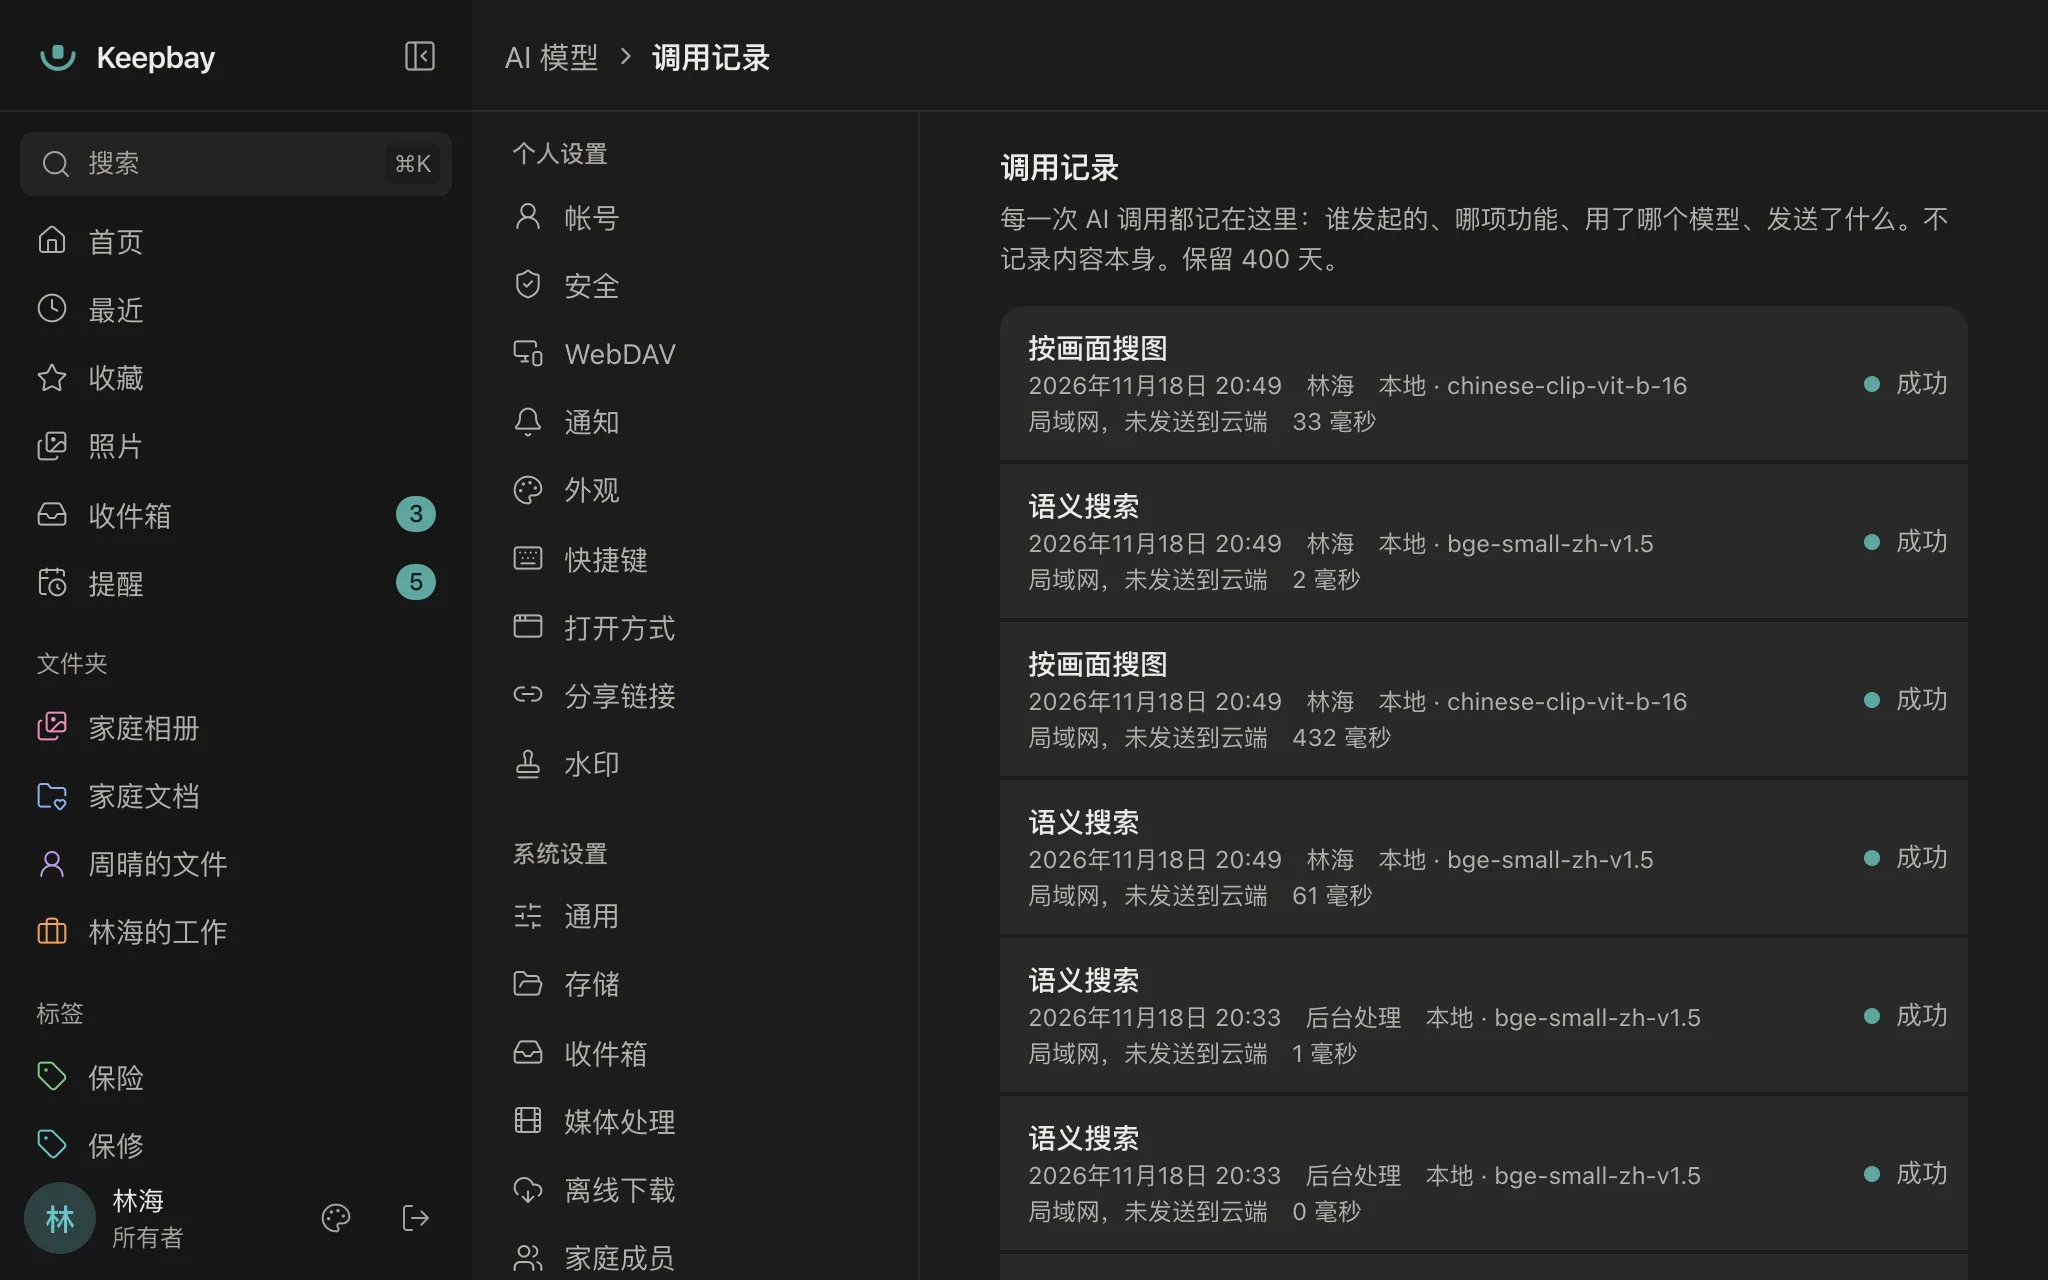
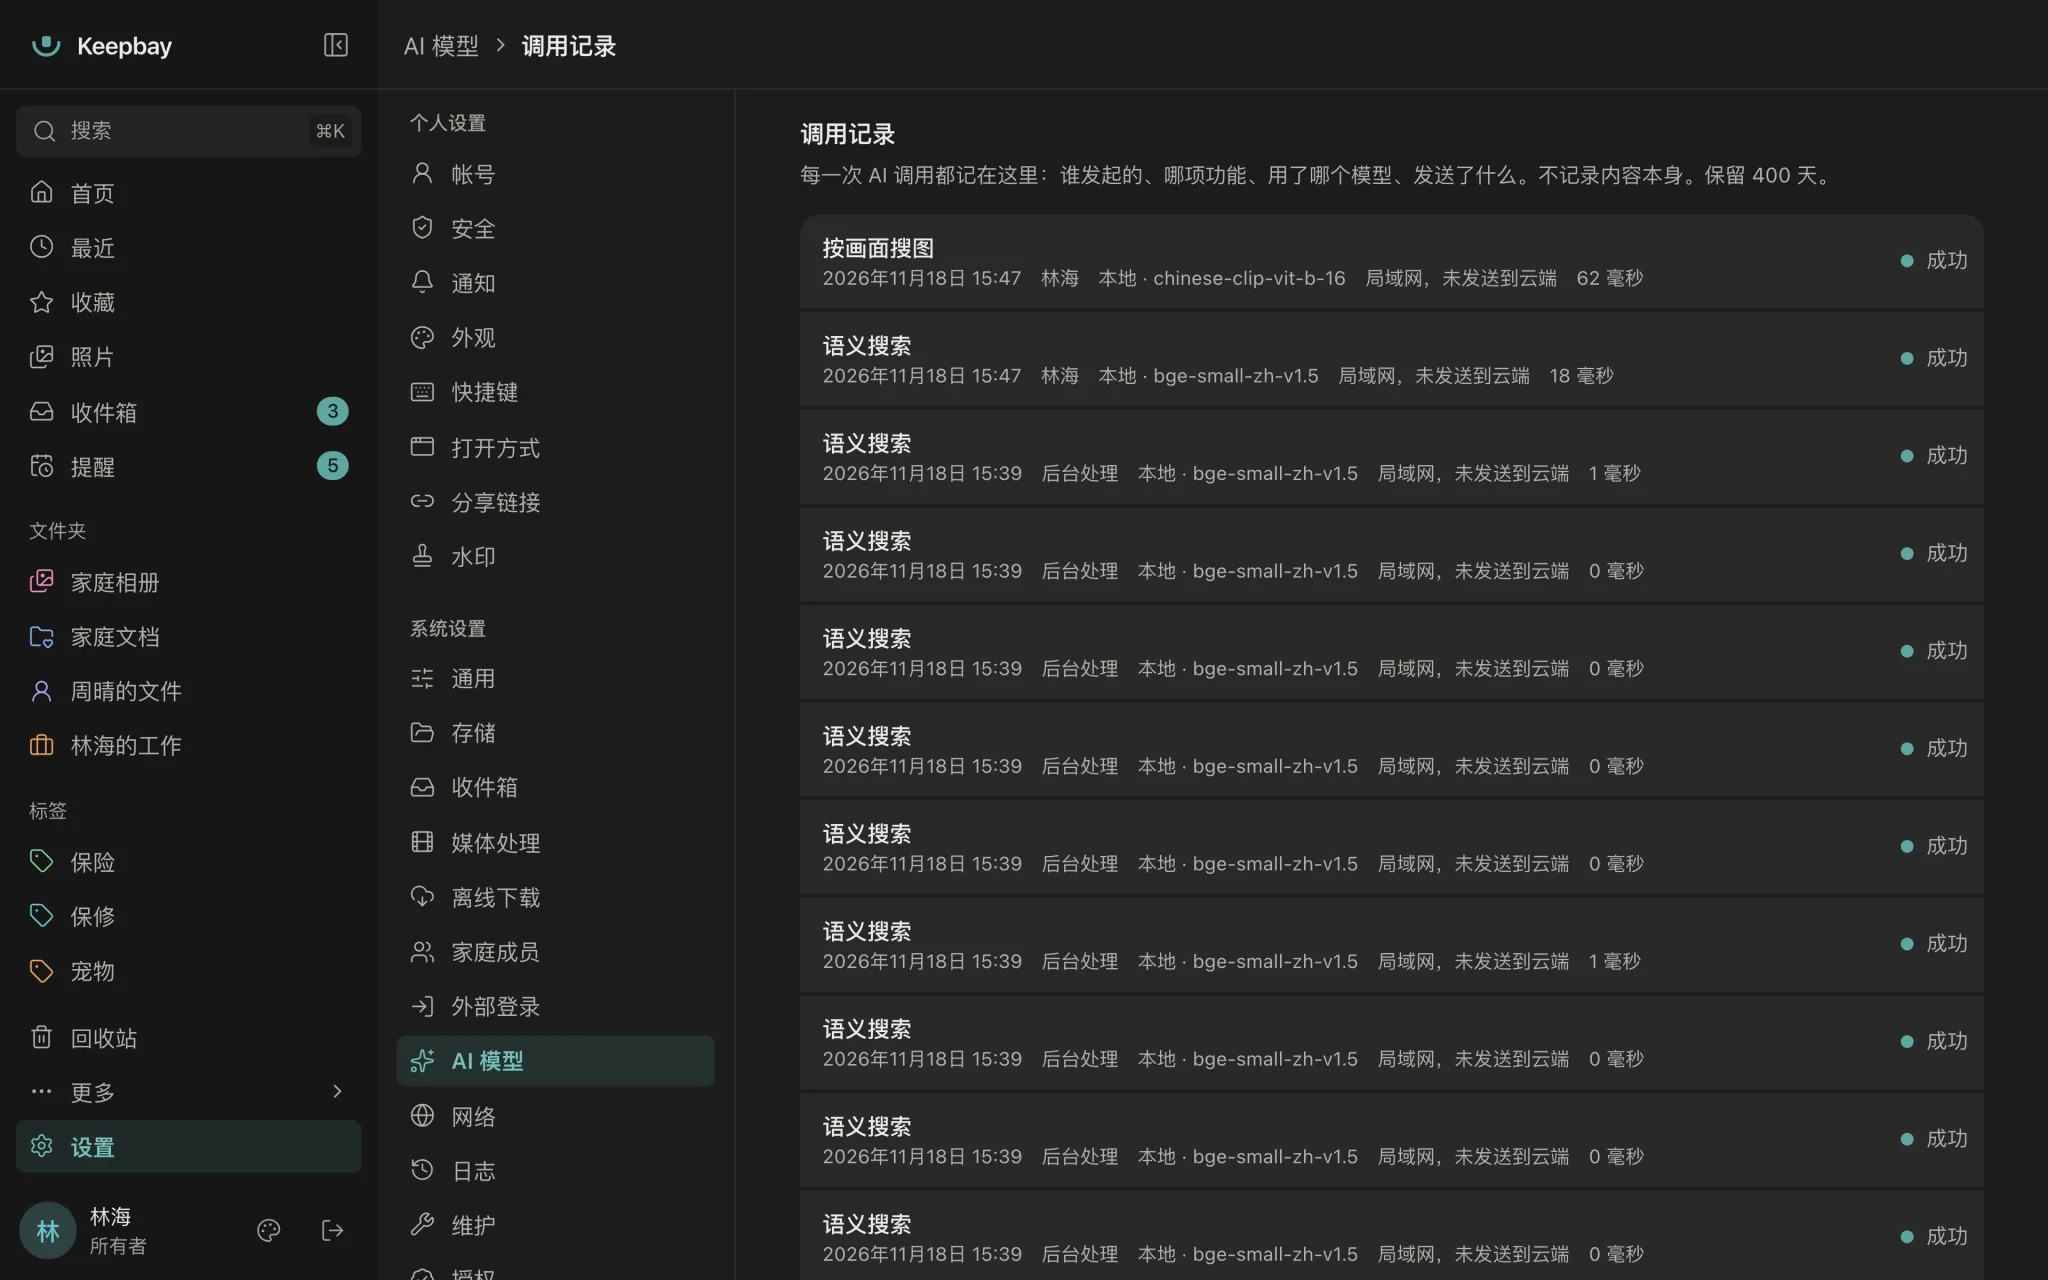
fix: Keepbay 大图和亮点轮播恢复成 1280 宽的完整界面截图
1024 × 640 的窗口太矮，侧栏底部的设置等入口被截掉；首屏、揭开对照、AI
和亮点轮播的截图从 W31 之前的版本取回，截图脚本的 wide 改回 1280 × 800，
格式小卡片、免费版、隐私卡片保留局部图

diff --git a/sites/keepbay/.vitepress/theme/visuals/KbShot.vue b/sites/keepbay/.vitepress/theme/visuals/KbShot.vue
@@ -4,7 +4,7 @@ import manifest from '../screenshots.json'
 
 // 界面截图（public/screenshots/ 中由 scripts/screenshots.mjs 生成，尺寸见 screenshots.json）：浅色、深色各一张，按网站当前的主题显示其中一张；
 // 有手机截图（mobile）时，首页舞台不固定的手机宽度下（≤760px，与 showcase.css 一致）换用手机截图；card 是卡片中的局部图，compact、panel 是搜索一节结果区的截图。
-// size 指定只用其中一种（如只用卡片的局部图、只用手机截图），不随页面宽度切换；fit 时铺满容器（object-fit: cover，位置用 style 中的 object-position 调）。
+// size 指定只用其中一种（如只用宽屏截图、只用手机截图），不随页面宽度切换；fit 时铺满容器（object-fit: cover，位置用 style 中的 object-position 调）。
 // 浅色、深色和两种尺寸都渲染出来，由 CSS 按 <html> 上的 dark 类和页面宽度显示其中一张：服务端渲染与客户端一致，不会水合不一致。
 // 都懒加载：不显示的那几张不会下载。class、style 等属性加到每一张图片上。
 // detail 时叠上推近用的高清图（清单中有 detail 的截图才有，见 zoom.ts），只在首页舞台固定时显示。
@@ -13,7 +13,7 @@ defineOptions({ inheritAttrs: false })
 
 type Size = 'wide' | 'mobile' | 'compact' | 'panel' | 'card'
 
-const props = defineProps<{ name: keyof typeof manifest; alt: string; size?: 'wide' | 'mobile' | 'card'; fit?: boolean; detail?: boolean }>()
+const props = defineProps<{ name: keyof typeof manifest; alt: string; size?: 'wide' | 'mobile'; fit?: boolean; detail?: boolean }>()
 
 const { detail: region, dpr, ...sizes }: Partial<Record<Size, number[]>> & { detail?: number[]; dpr?: number[] } = manifest[props.name]
 const variants = Object.entries(sizes)

diff --git a/sites/keepbay/.vitepress/theme/home/KbHighlights.vue b/sites/keepbay/.vitepress/theme/home/KbHighlights.vue
@@ -11,7 +11,7 @@ const items = [
   { name: 'video', title: '视频。', text: '同名的字幕自动加载，电视录制的 TS 视频也能在线播放。', alt: '查看器中播放一段海边的视频' },
   { name: 'slides', title: '在线编辑。', text: '接好 ONLYOFFICE 或 Collabora Online，多人同时编辑。', alt: '在查看器中用 ONLYOFFICE 编辑演示文稿' },
   { name: 'share', title: '分享页面。', text: '对方不需要帐号，打开链接就能浏览和下载。', alt: '打开分享链接看到的相册，照片排成网格，可以下载' },
-  { name: 'desk-card', title: 'AI 桌面。', text: '用聊天的方式查资料，回答附上相关的文件。专业版。', alt: 'AI 桌面：问家里哪些电器还在保修期内，回答列出保修期限和对应的文件' },
+  { name: 'desk', title: 'AI 桌面。', text: '用聊天的方式查资料，回答附上相关的文件。专业版。', alt: 'AI 桌面：问家里哪些电器还在保修期内，回答列出保修期限和对应的文件' },
 ] as const
 
 const track = ref<HTMLElement>()
@@ -117,7 +117,7 @@ onBeforeUnmount(() => {
         @click="onCard(i)"
       >
         <div class="cap sx-phrase">{{ item.title }}<span>{{ item.text }}</span></div>
-        <div class="img sx-fade-b"><KbShot :name="item.name" size="card" fit :alt="item.alt" /></div>
+        <div class="img sx-fade-b"><KbShot :name="item.name" size="wide" fit :alt="item.alt" /></div>
       </div>
     </div>
     <div class="ctrl">

diff --git a/docs/plan.md b/docs/plan.md
@@ -324,6 +324,7 @@ W23 留下的素材，只改 Keepbay：
   - 已知局限：揭开对照（0.72–0.86）和 AI 三张（0.66–0.76）未推近时低于 0.85，推近后 0.91–1.49；这两处截图框受舞台高度限制，窗口已是完整侧栏的最小宽度。首屏两侧的手机画面 0.52–0.58，是设备示意。官网手机宽度下亮点卡片约 0.31、格式卡片约 0.6（手机屏是 3 倍像素）
   - 顺带修复：减少动态效果时格式一节的卡片区高度为 0、卡片压在格式名上
   - 补充（用户反映仍有点糊）：卡片图改为按显示尺寸出图（见上面"按显示尺寸出图"），亮点、隐私、免费版的卡片在 100%、125%、200% 屏上 1:1 显示；share、desk-card、slides、photos 放宽到 0.8 倍以放全内容；窄屏下免费版截图不再放大，581–960px 宽时成员格子改为左右两栏
+  - 再补充（用户定）：1024 × 640 的大图把侧栏底部的「设置」等截掉了，用户觉得第一版更好。大图（首屏、揭开对照、AI）和亮点轮播从 git（3f09123）恢复成第一版 1280 × 800 的完整界面，截图脚本的 wide 改回 1280 × 800 按 1.6 倍、高清图 3 倍，删掉 desk-card 和亮点的局部图。格式小卡片、免费版、隐私卡片保留局部图。亮点轮播文字约 0.64 倍，大图未推近时同样低于 0.85，用户接受
 - **W31b Novaix**：环境在 novaix 仓库 `_testing/site-shots-w24/`（见 W24：prepare.sh、seed.sql、polish.py、shots.mjs，端口 18062）。13 张：仪表盘（大图）、流程 7 张、实例、VPC、节点监控、用户、内容管理、插件
 - **W31c Lsky**：环境脚本 `sites/lsky/scripts/`（setup.sh、seed-demo.php、screenshots.mjs，端口 18064，不能动开发用的 PostgreSQL 库，见 W24）。7 张：上传、图片（大图）、相册、仪表板、订单、支付、工单
 
